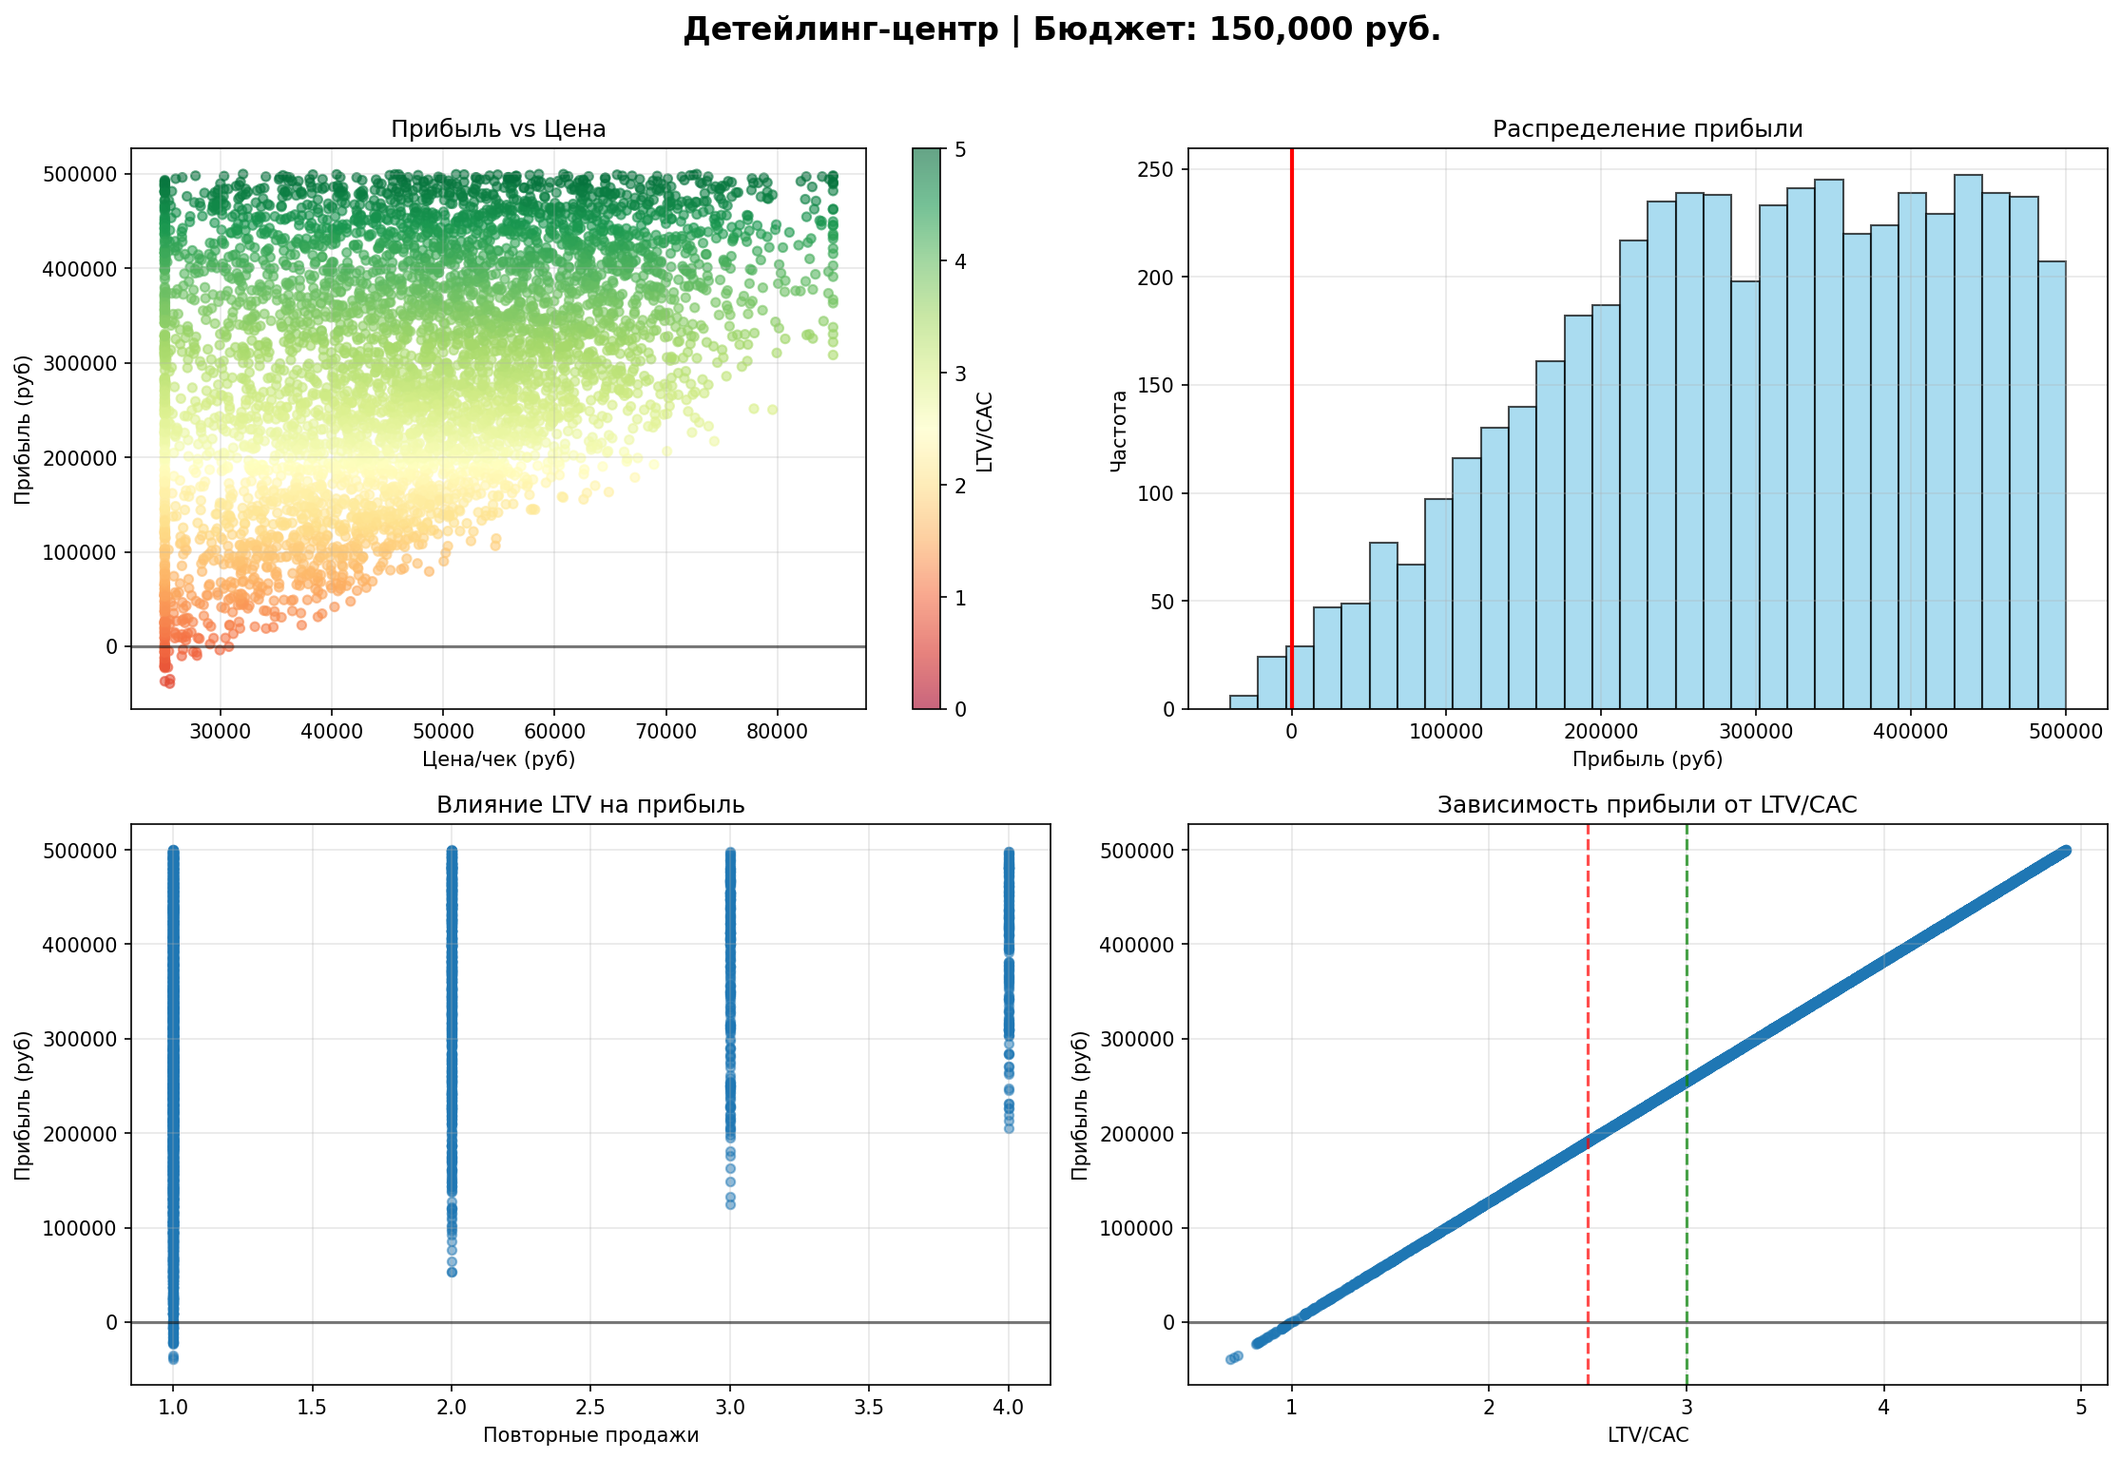
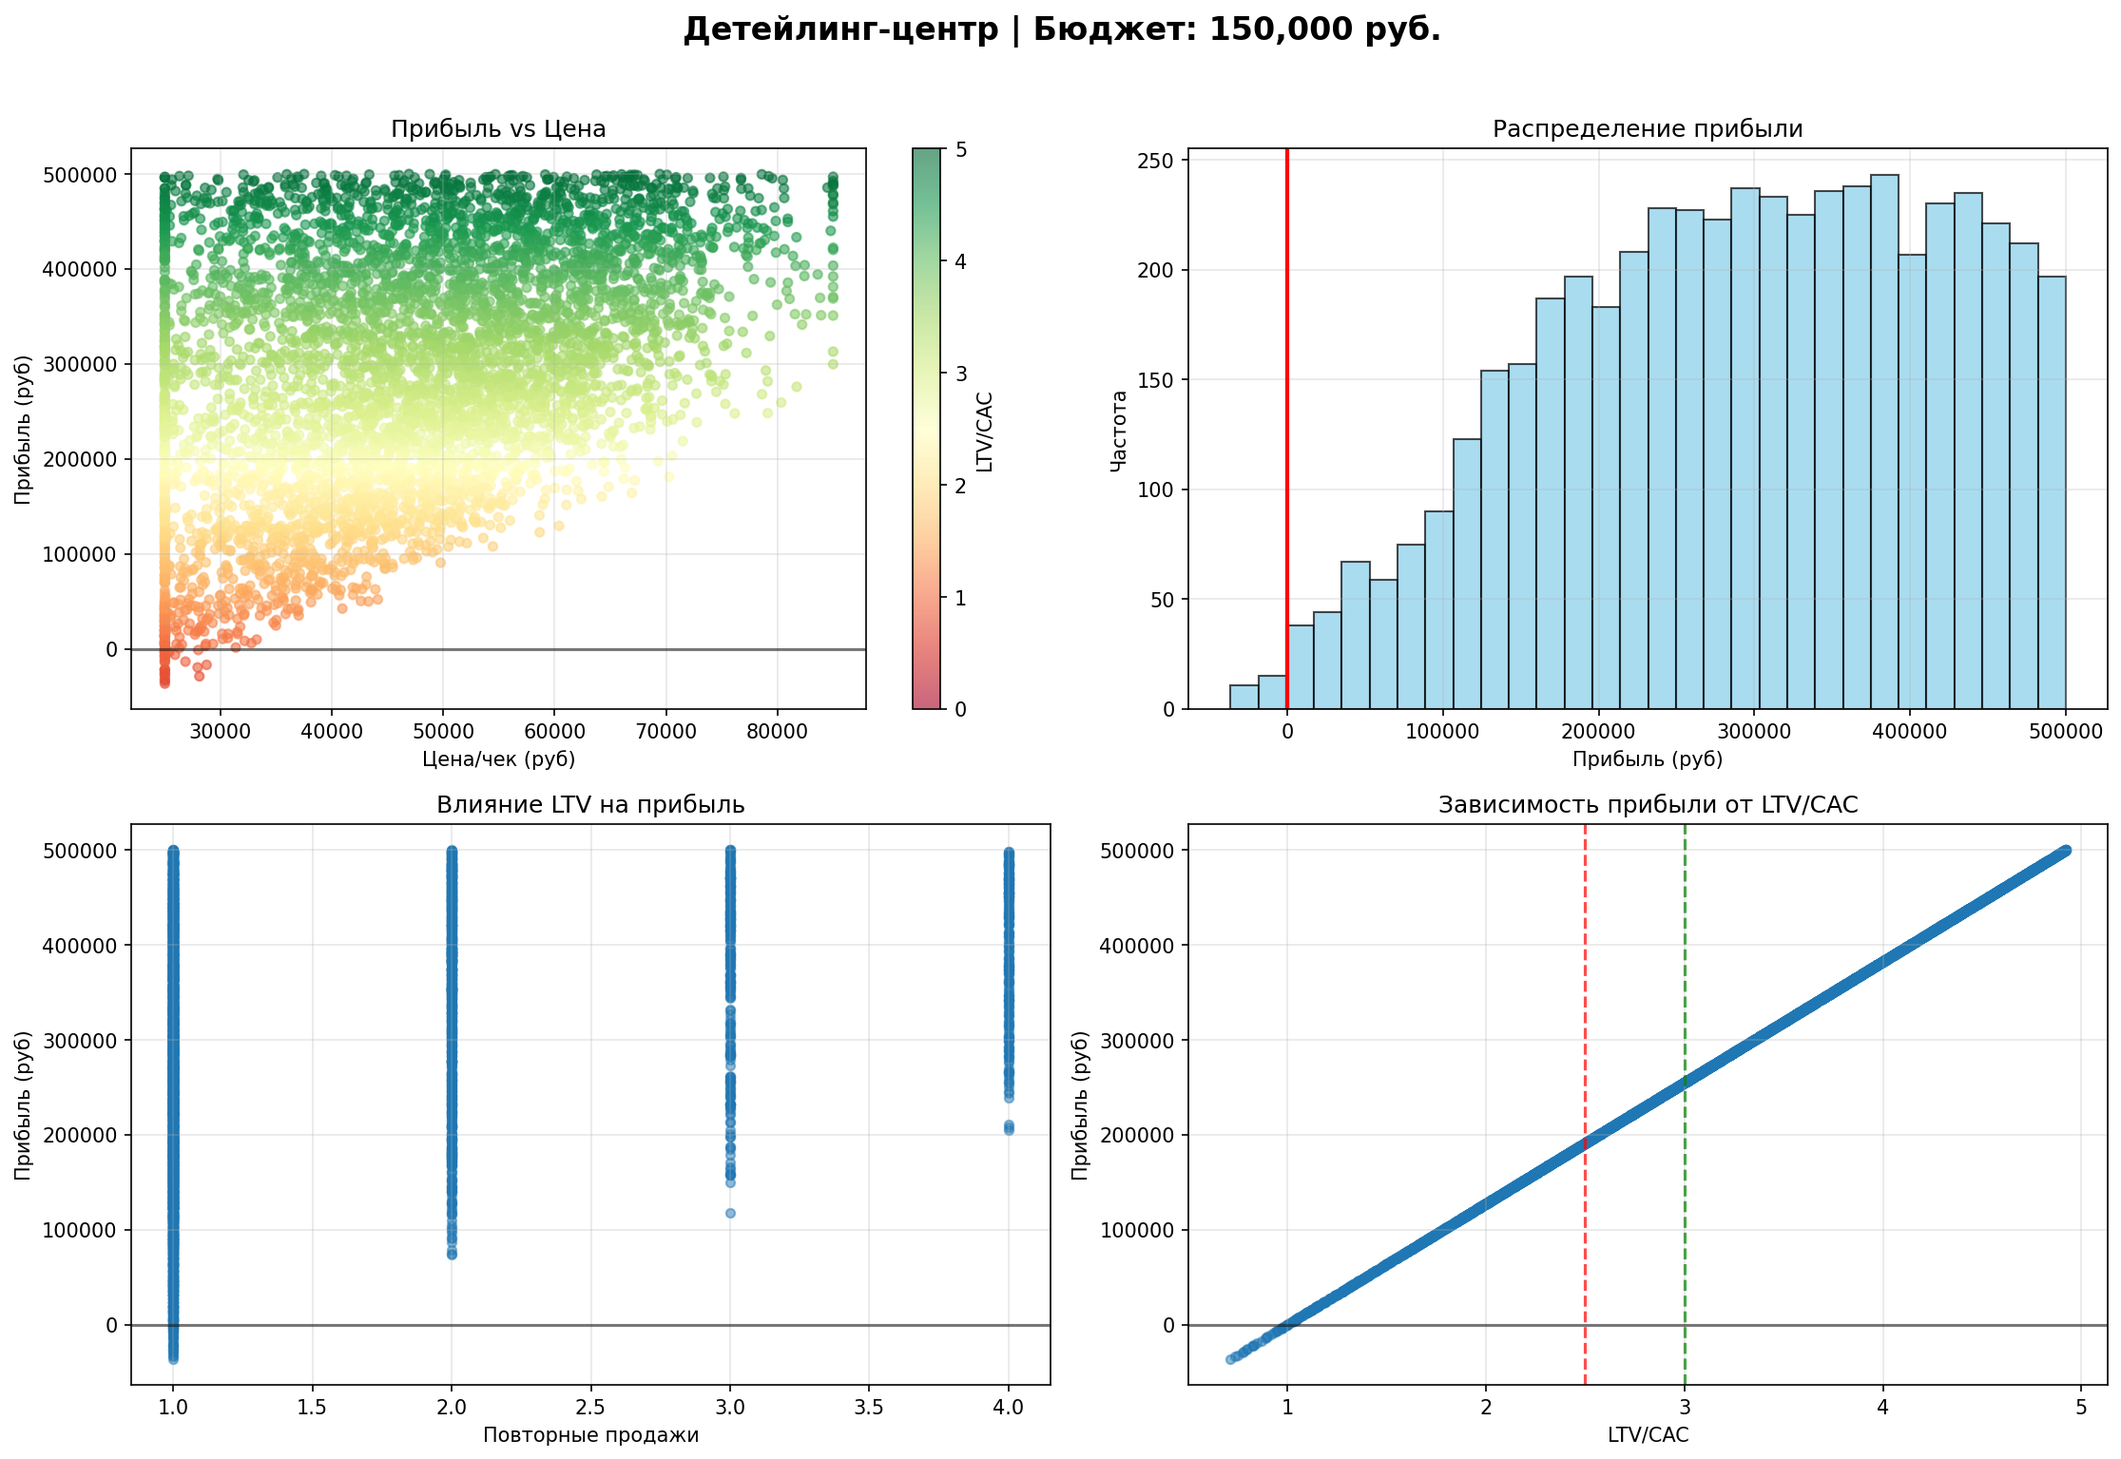
update

diff --git a/main.py b/main.py
@@ -1,4 +1,4 @@
-# universal_economy_analyzer.py
+# main_final.py
 import torch
 import click
 import yaml
@@ -69,7 +69,7 @@ def run_universal_economy(config, plot, optimize, scenarios):
     if 'repeat_sessions_min' in p_p:
         repeat_field = generate_repeat_business(p_p, scenarios_count, device, business_type)
     elif 'repeat_purchases_min' in p_p:
-        repeat_field = generate_repeat_purchases(p_p, scenarios_count, device)
+        repeat_field = generate_repeat_business(p_p, scenarios_count, device, business_type)
     elif 'subscription_months_min' in p_p:
         repeat_field = generate_subscription(p_p, scenarios_count, device)
     else:
@@ -99,7 +99,7 @@ def run_universal_economy(config, plot, optimize, scenarios):
         base_cogs = p_p.get('base_cogs', 0.0)
         
         # Учитываем скидки на опт/пакеты для разных бизнес-моделей
-        if business_type in ['detailing', 'psychology'] and 'repeat_sessions_min' in p_p:
+        if business_type in ['detailing', 'psychology'] and torch.max(repeat_field) > 1:
             # Скидка за пакеты услуг
             package_discount = torch.where(
                 repeat_field >= 3,
@@ -159,7 +159,7 @@ def run_universal_economy(config, plot, optimize, scenarios):
     display_recommendations(
         business_type, success_rate, ltv_cac_ratio[optimal_idx].item(),
         price_field[optimal_idx].item(), realistic_profits, 
-        profits[optimal_idx].item(), budget
+        profits[optimal_idx].item(), budget, p_p
     )
     
     # --- ВИЗУАЛИЗАЦИЯ ---
@@ -175,7 +175,7 @@ def run_universal_economy(config, plot, optimize, scenarios):
         run_optimization(
             business_type, budget, revenue, effective_budget,
             realistic_mask, price_field, conv_field, cpc_field,
-            repeat_field, p_p
+            repeat_field, p_p, realistic_profits
         )
 
 # === ВСПОМОГАТЕЛЬНЫЕ ФУНКЦИИ ===
@@ -246,10 +246,25 @@ def generate_price(product_params, scenarios, device, business_type):
     price = torch.normal(price_mode, price_std, size=(scenarios,), device=device)
     return torch.clamp(price, min=price_min, max=price_max)
 
+def generate_ticket(product_params, scenarios, device):
+    """Генерация среднего чека"""
+    ticket_min = product_params['avg_ticket_min']
+    ticket_max = product_params['avg_ticket_max']
+    ticket_mode = product_params.get('avg_ticket_mode', (ticket_min + ticket_max) / 2)
+    
+    if 'ticket_std' in product_params:
+        ticket_std = product_params['ticket_std']
+    else:
+        ticket_std = (ticket_max - ticket_min) / 6
+    
+    ticket = torch.normal(ticket_mode, ticket_std, size=(scenarios,), device=device)
+    return torch.clamp(ticket, min=ticket_min, max=ticket_max)
+
 def generate_repeat_business(product_params, scenarios, device, business_type):
     """Генерация повторных покупок"""
-    repeat_min = product_params['repeat_sessions_min']
-    repeat_max = product_params['repeat_sessions_max']
+    # Используем оба возможных ключа
+    repeat_min = product_params.get('repeat_sessions_min') or product_params.get('repeat_purchases_min')
+    repeat_max = product_params.get('repeat_sessions_max') or product_params.get('repeat_purchases_max')
     
     if business_type == 'detailing':
         # Для детейлинга - большинство 1-2 посещения, некоторые постоянные
@@ -260,12 +275,49 @@ def generate_repeat_business(product_params, scenarios, device, business_type):
         repeat_mean = (repeat_min + repeat_max) / 2
         repeat_std = (repeat_max - repeat_min) / 6
         repeat = torch.normal(repeat_mean, repeat_std, size=(scenarios,), device=device)
+    elif business_type == 'low_ticket_service':
+        # Для кофейни и подобных - нормальное распределение
+        repeat_mean = (repeat_min + repeat_max) / 2
+        repeat_std = (repeat_max - repeat_min) / 8
+        repeat = torch.normal(repeat_mean, repeat_std, size=(scenarios,), device=device)
     else:
         # Равномерное распределение
         repeat = torch.distributions.Uniform(repeat_min, repeat_max).sample((scenarios,)).to(device)
     
     repeat = torch.clamp(repeat, min=repeat_min, max=repeat_max)
     return torch.round(repeat)
+
+def generate_subscription(product_params, scenarios, device):
+    """Генерация длительности подписки"""
+    months_min = product_params['subscription_months_min']
+    months_max = product_params['subscription_months_max']
+    
+    # Экспоненциальное распределение для подписок (большинство короткие)
+    lambda_param = 0.5
+    subscription = torch.distributions.Exponential(lambda_param).sample((scenarios,)).to(device)
+    subscription = subscription * (months_max - months_min) + months_min
+    return torch.clamp(subscription, min=months_min, max=months_max)
+
+def generate_cost_per_lead(market_params, scenarios, device):
+    """Для бизнесов с оплатой за лид"""
+    cost_avg = market_params['cost_per_lead_avg']
+    cost_std = market_params.get('cost_per_lead_std', cost_avg * 0.3)
+    cost = torch.normal(cost_avg, cost_std, size=(scenarios,), device=device)
+    return torch.clamp(cost, min=cost_avg*0.5, max=cost_avg*1.5)
+
+def generate_two_stage_conversion(product_params, scenarios, device):
+    """Для двухэтапной воронки (клик → лид → продажа)"""
+    lead_conv = torch.distributions.Uniform(
+        product_params['conversion_to_lead_min'],
+        product_params['conversion_to_lead_max']
+    ).sample((scenarios,)).to(device)
+    
+    sale_conv = torch.distributions.Uniform(
+        product_params['conversion_to_sale_min'],
+        product_params['conversion_to_sale_max']
+    ).sample((scenarios,)).to(device)
+    
+    return lead_conv * sale_conv
 
 def filter_realistic_scenarios(conv_field, cpc_field, sales, profits, business_type, product_params):
     """Фильтрация реалистичных сценариев"""
@@ -282,6 +334,13 @@ def filter_realistic_scenarios(conv_field, cpc_field, sales, profits, business_t
             (cpc_field >= 80) & (cpc_field <= 400) &
             (sales >= 0.5) &
             (profits > -100000) & (profits < 300000)
+        )
+    elif business_type == 'subscription':
+        return (
+            (conv_field >= 0.005) & (conv_field <= 0.1) &
+            (cpc_field >= 50) & (cpc_field <= 500) &
+            (sales >= 0.5) &
+            (profits > -50000) & (profits < 200000)
         )
     else:
         return (
@@ -345,14 +404,15 @@ def display_results(project_name, business_type, realistic_count, success_rate,
     click.echo(f"  Конверсия: {conv_field[optimal_idx].item()*100:.2f}%")
     click.echo(f"  CPC: {cpc_field[optimal_idx].item():.0f} руб.")
     
-    if 'repeat_sessions_min' in product_params:
+    if torch.max(repeat_field) > 1:
         click.echo(f"  Повторные продажи: {repeat_field[optimal_idx].item():.1f}")
     
     click.echo(f"  LTV/CAC: {ltv_cac_ratio[optimal_idx].item():.2f}")
     click.echo(f"  Маржа на единицу: {unit_margin[optimal_idx].item():,.0f} руб.")
 
 def display_recommendations(business_type, success_rate, ltv_cac, 
-                           optimal_price, realistic_profits, optimal_profit, budget):
+                           optimal_price, realistic_profits, optimal_profit, 
+                           budget, product_params):
     """Вывод рекомендаций в зависимости от типа бизнеса"""
     
     click.secho(f"\n💡 СТРАТЕГИЧЕСКИЕ РЕКОМЕНДАЦИИ:", fg='cyan', bold=True)
@@ -382,6 +442,32 @@ def display_recommendations(business_type, success_rate, ltv_cac,
             click.echo("    1. Оптимизируйте воронку продаж")
             click.echo("    2. Внедрите пакеты сессий со скидкой")
             click.echo("    3. Развивайте узкую специализацию")
+    
+    elif business_type == 'subscription':
+        click.secho("  🔄 SAAS/ПОДПИСКА:", fg='green', bold=True)
+        if success_rate < 40:
+            click.secho("    ⚠  ВЫСОКИЙ РИСК", fg='yellow')
+            click.echo("    1. Снижайте стоимость привлечения (CAC)")
+            click.echo("    2. Улучшайте конверсию на сайте")
+            click.echo("    3. Тестируйте разные ценовые планы")
+        else:
+            click.secho("    ✅ УСТОЙЧИВАЯ МОДЕЛЬ", fg='green')
+            click.echo("    1. Увеличивайте LTV через удержание")
+            click.echo("    2. Добавляйте upsell/cross-sell")
+            click.echo("    3. Автоматизируйте онбординг")
+    
+    elif business_type == 'low_ticket_service':
+        click.secho("  ☕ СЕРВИС С НИЗКИМ ЧЕКОМ:", fg='orange', bold=True)
+        if success_rate < 50:
+            click.secho("    ⚠  СРЕДНИЙ РИСК", fg='yellow')
+            click.echo("    1. Увеличивайте частоту покупок")
+            click.echo("    2. Повышайте средний чек")
+            click.echo("    3. Оптимизируйте операционные расходы")
+        else:
+            click.secho("    ✅ УСТОЙЧИВАЯ МОДЕЛЬ", fg='green')
+            click.echo("    1. Масштабируйте географию")
+            click.echo("    2. Внедряйте программы лояльности")
+            click.echo("    3. Автоматизируйте процессы")
     
     else:
         if success_rate < 30:
@@ -470,7 +556,8 @@ def create_visualization(project_name, business_type, realistic_mask,
     business_titles = {
         'detailing': 'Детейлинг-центр',
         'psychology': 'Психологическая практика',
-        'subscription': 'SaaS/Подписка'
+        'subscription': 'SaaS/Подписка',
+        'low_ticket_service': 'Сервис с низким чеком'
     }
     
     title = business_titles.get(business_type, 'Бизнес-анализ')
@@ -484,7 +571,7 @@ def create_visualization(project_name, business_type, realistic_mask,
 
 def run_optimization(business_type, budget, revenue, effective_budget,
                     realistic_mask, price_field, conv_field, cpc_field,
-                    repeat_field, product_params):
+                    repeat_field, product_params, realistic_profits):
     """Оптимизация параметров"""
     
     click.secho(f"\n🔍 АНАЛИЗ ОПТИМИЗАЦИИ:", fg='cyan', bold=True)
@@ -514,54 +601,6 @@ def run_optimization(business_type, budget, revenue, effective_budget,
     else:
         click.secho(f"  ⚠  Даже при {budgets[-1]:,.0f} руб. успешность < 50%", fg='yellow')
         click.echo("     • Необходимо улучшать конверсию или снижать стоимость привлечения")
-
-# === ФУНКЦИИ ДЛЯ ДРУГИХ БИЗНЕС-МОДЕЛЕЙ ===
-
-def generate_cost_per_lead(market_params, scenarios, device):
-    """Для бизнесов с оплатой за лид"""
-    cost_avg = market_params['cost_per_lead_avg']
-    cost_std = market_params.get('cost_per_lead_std', cost_avg * 0.3)
-    cost = torch.normal(cost_avg, cost_std, size=(scenarios,), device=device)
-    return torch.clamp(cost, min=cost_avg*0.5, max=cost_avg*1.5)
-
-def generate_ticket(product_params, scenarios, device):
-    """Генерация среднего чека"""
-    ticket_min = product_params['avg_ticket_min']
-    ticket_max = product_params['avg_ticket_max']
-    ticket_mode = product_params.get('avg_ticket_mode', (ticket_min + ticket_max) / 2)
-    
-    if 'ticket_std' in product_params:
-        ticket_std = product_params['ticket_std']
-    else:
-        ticket_std = (ticket_max - ticket_min) / 6
-    
-    ticket = torch.normal(ticket_mode, ticket_std, size=(scenarios,), device=device)
-    return torch.clamp(ticket, min=ticket_min, max=ticket_max)
-
-def generate_subscription(product_params, scenarios, device):
-    """Генерация длительности подписки"""
-    months_min = product_params['subscription_months_min']
-    months_max = product_params['subscription_months_max']
-    
-    # Экспоненциальное распределение для подписок (большинство короткие)
-    lambda_param = 0.5
-    subscription = torch.distributions.Exponential(lambda_param).sample((scenarios,)).to(device)
-    subscription = subscription * (months_max - months_min) + months_min
-    return torch.clamp(subscription, min=months_min, max=months_max)
-
-def generate_two_stage_conversion(product_params, scenarios, device):
-    """Для двухэтапной воронки (клик → лид → продажа)"""
-    lead_conv = torch.distributions.Uniform(
-        product_params['conversion_to_lead_min'],
-        product_params['conversion_to_lead_max']
-    ).sample((scenarios,)).to(device)
-    
-    sale_conv = torch.distributions.Uniform(
-        product_params['conversion_to_sale_min'],
-        product_params['conversion_to_sale_max']
-    ).sample((scenarios,)).to(device)
-    
-    return lead_conv * sale_conv
 
 if __name__ == '__main__':
     run_universal_economy()
